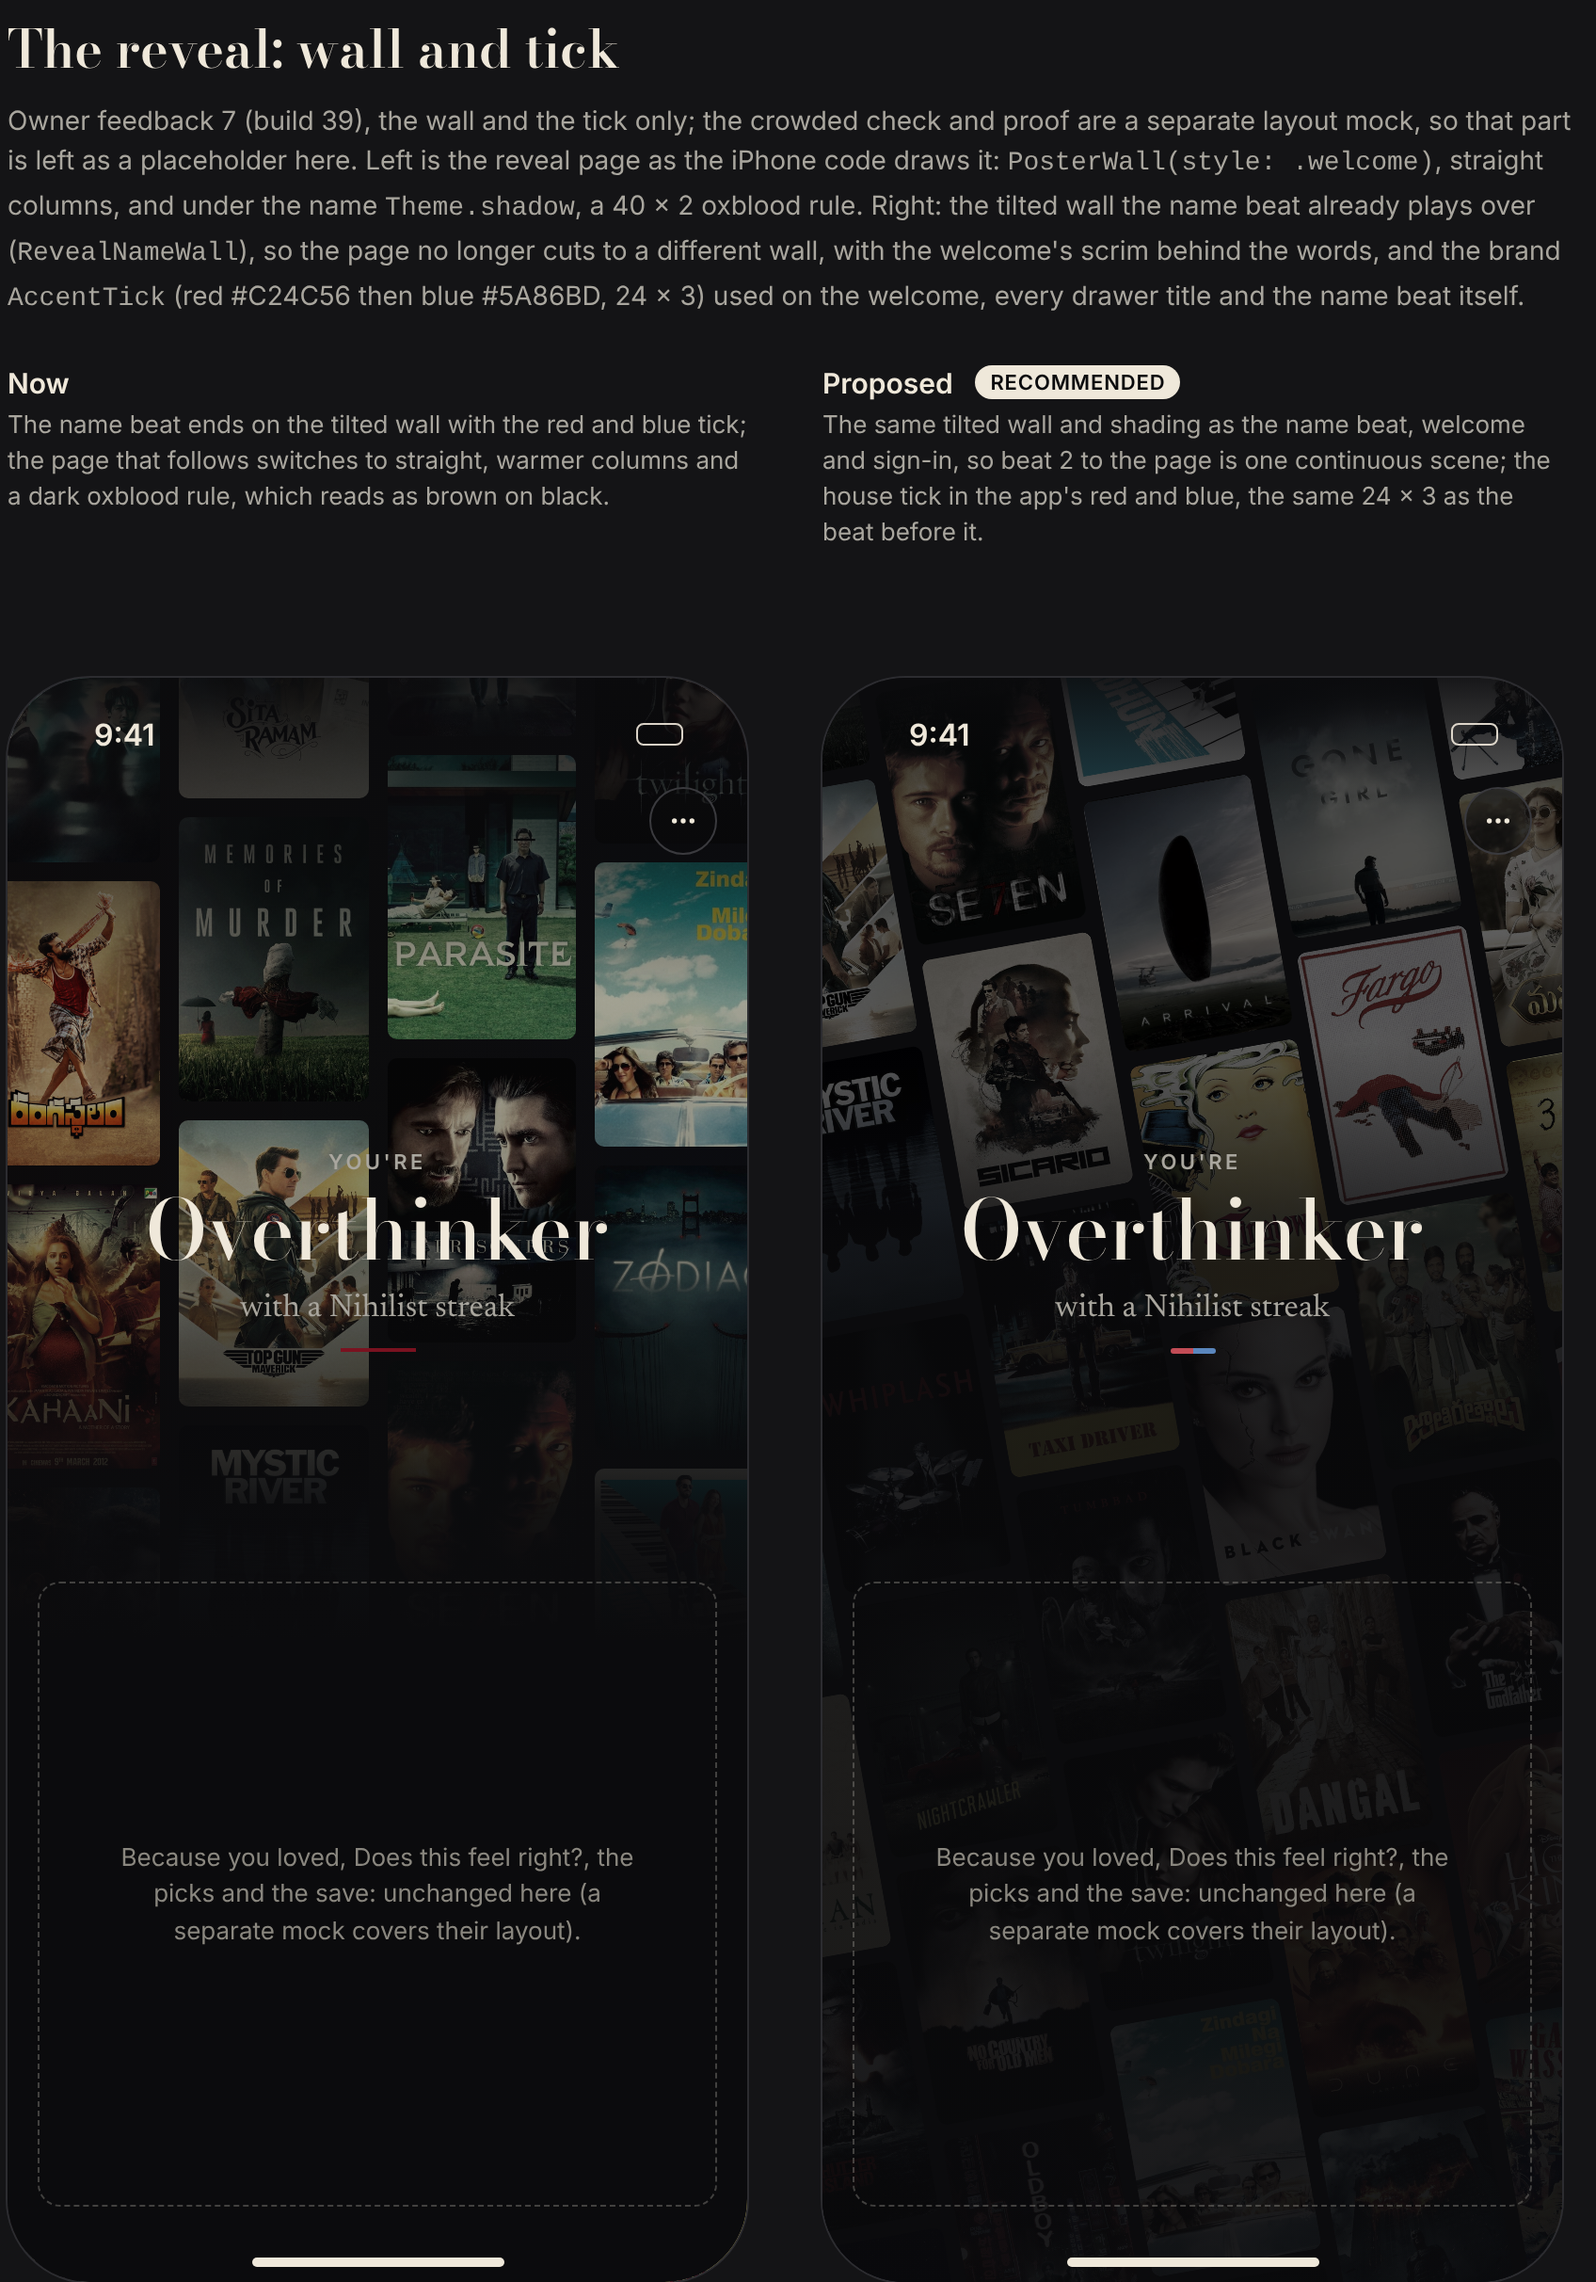
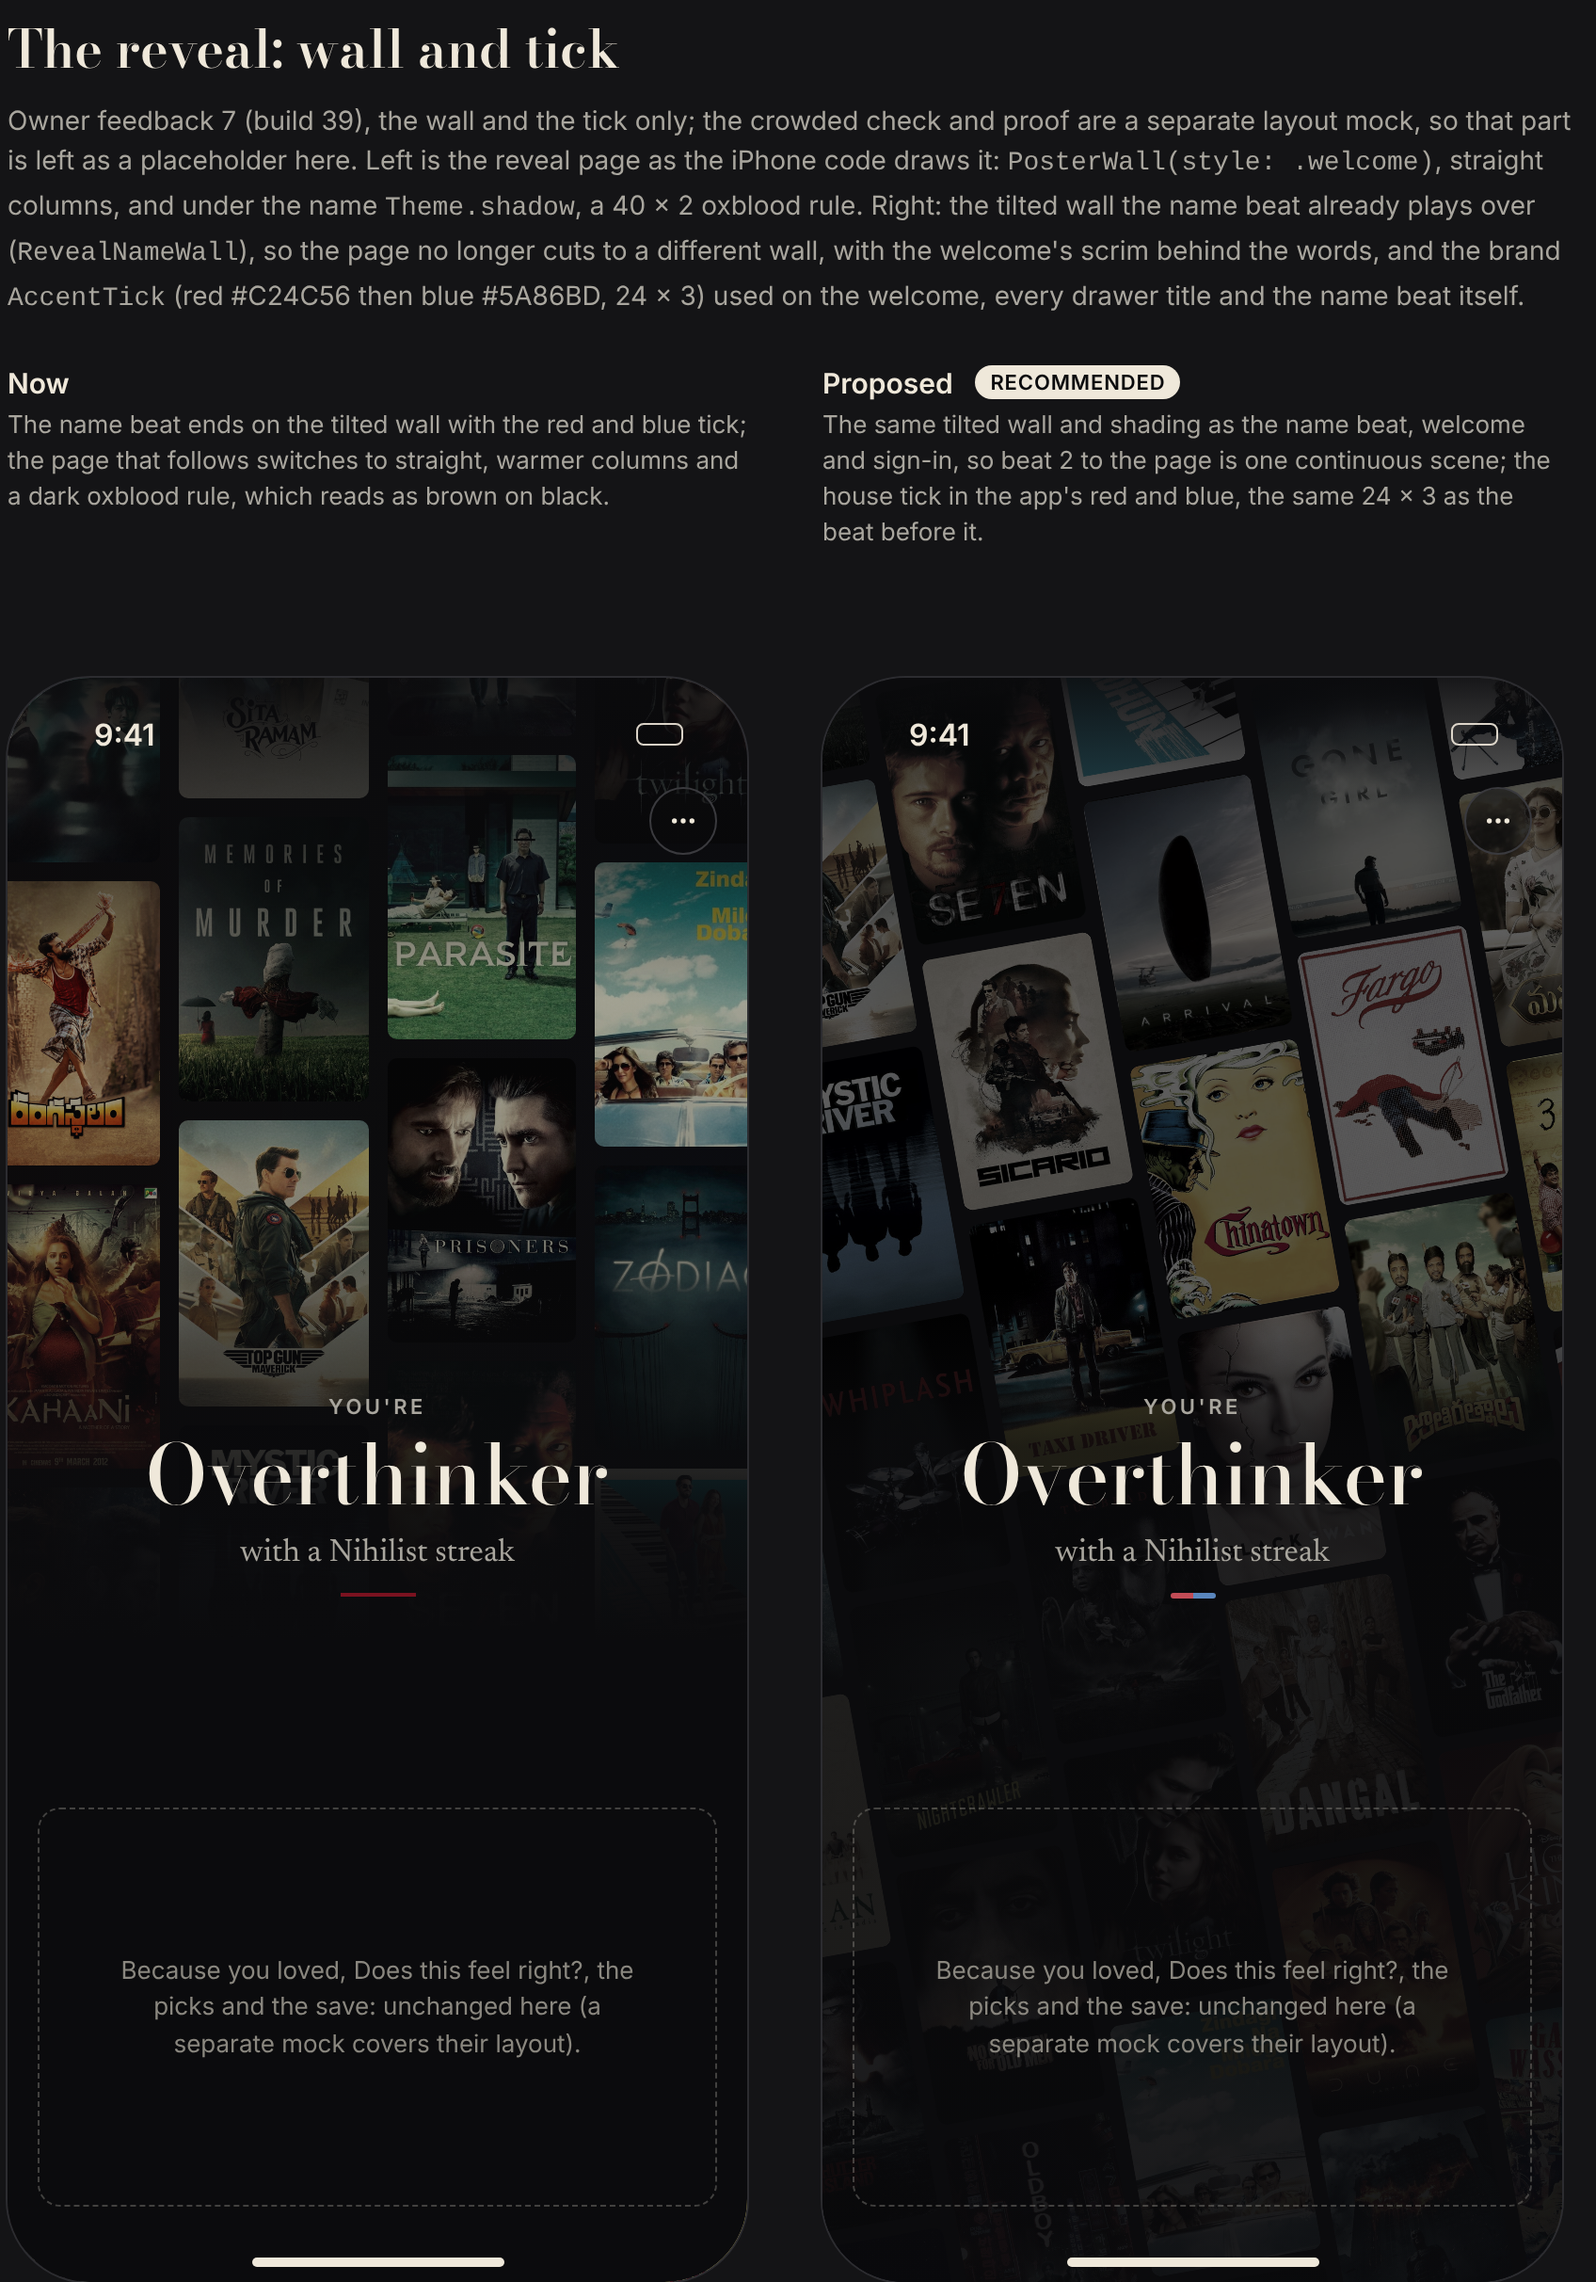
Build 39 mocks: tilted walls (b93)
Claude-Session: https://claude.ai/code/session_013WRDCFXH8nihP92apJAVW7

diff --git a/mockups/journeys/b93-walls-reveal.html b/mockups/journeys/b93-walls-reveal.html
@@ -3,14 +3,14 @@
 <link href="https://fonts.googleapis.com/css2?family=Bodoni+Moda:opsz,wght@6..96,400..700&family=Inter:wght@400;500;600;700&family=Newsreader:opsz,wght@6..72,400;6..72,500&display=swap" rel="stylesheet">
 <link rel="stylesheet" href="b93-walls.css">
 <style>
-.tc{position:absolute;left:16px;right:16px;top:250px;display:flex;flex-direction:column;align-items:center;text-align:center}
+.tc{position:absolute;left:16px;right:16px;top:380px;display:flex;flex-direction:column;align-items:center;text-align:center}
 .eye{font:600 11px var(--ui);letter-spacing:.16em;text-transform:uppercase;color:var(--muted)}
 .nm{font:500 44px/1.15 var(--serif);margin:4px 0 0}
 .stk{font:400 17px var(--read);color:var(--muted);margin-top:8px}
 .tc .oxrule,.tc .tick{margin-top:12px}
 .zoom{position:absolute;left:50%;top:418px;transform:translateX(-50%);display:flex;align-items:center;gap:10px;font:500 12px var(--ui);color:var(--muted)}
 .zoom b{display:block;width:96px;height:12px;border-radius:3px}
-.later{position:absolute;left:16px;right:16px;top:480px;bottom:40px;border:1px dashed rgba(169,166,158,.35);border-radius:12px;display:grid;place-items:center;font:400 13px/1.5 var(--ui);color:var(--faint);text-align:center;padding:0 40px}
+.later{position:absolute;left:16px;right:16px;top:600px;bottom:40px;border:1px dashed rgba(169,166,158,.35);border-radius:12px;display:grid;place-items:center;font:400 13px/1.5 var(--ui);color:var(--faint);text-align:center;padding:0 40px}
 .menu{position:absolute;right:16px;top:58px}
 </style></head><body>
 <div id="board">
